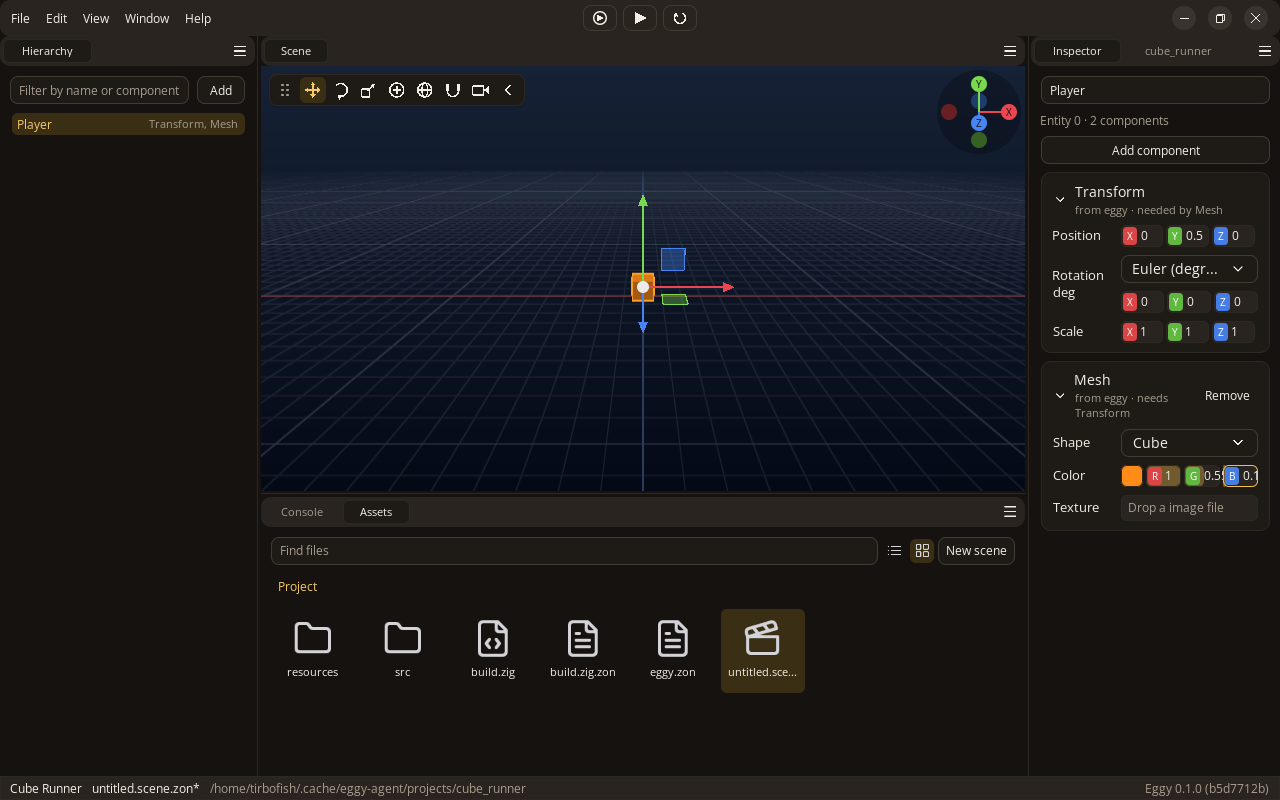
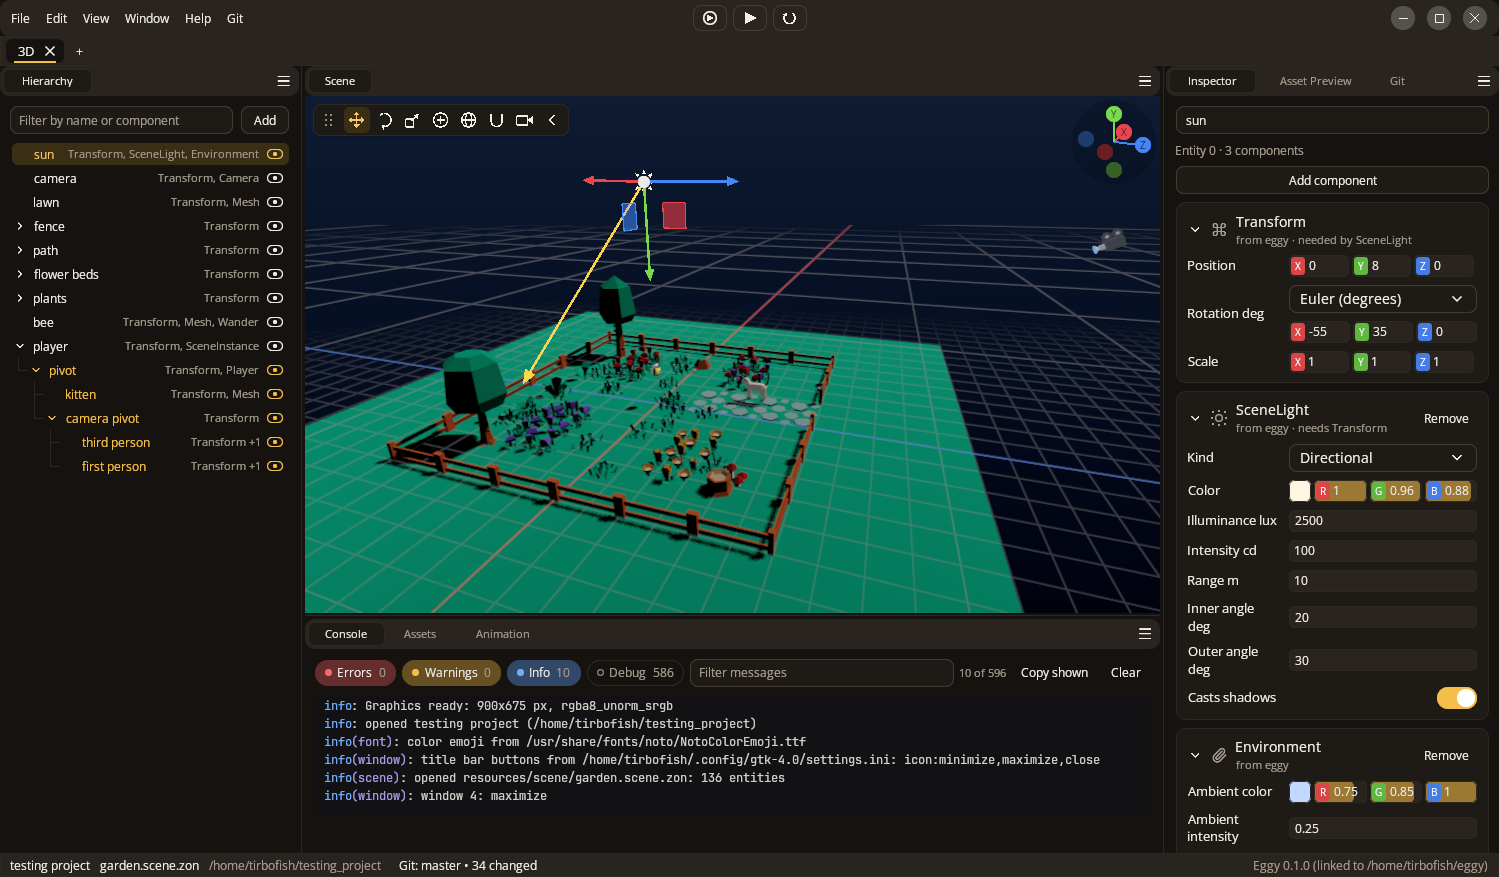
Add the get-started script and say the game compiles its own editor.
The script is there because the editor is compiled with the game. Refresh the editor screenshot to match.

diff --git a/index.html b/index.html
@@ -4,7 +4,7 @@
   <meta charset="utf-8">
   <meta name="viewport" content="width=device-width, initial-scale=1">
   <title>eggy: a game engine for Zig</title>
-  <meta name="description" content="eggy is a game engine for Zig. Your game is a Zig package that builds into a runtime for players and a desktop editor for making it.">
+  <meta name="description" content="eggy is a game engine for Zig. Your game is a Zig package that compiles its own editor from source.">
   <meta name="theme-color" content="#faf7f2" media="(prefers-color-scheme: light)">
   <meta name="theme-color" content="#15120f" media="(prefers-color-scheme: dark)">
   <link rel="icon" href="assets/icon.svg" type="image/svg+xml">
@@ -41,15 +41,24 @@
     <section class="hero">
       <div class="wrap">
         <h1>eggy is a game engine for Zig.</h1>
-        <p class="lead">You write your game as a Zig package. eggy builds it into a runtime for your players and a desktop editor for making it, and both run the same code.</p>
+        <p class="lead">You write your game as a Zig package. It compiles its own editor from source, which you can change with plugins or by editing that source.</p>
         <div class="actions">
           <a class="btn btn-default" href="https://eggyengine.github.io/eggy/"><svg class="i" aria-hidden="true"><use href="#i-docs"/></svg>Read the docs</a>
           <a class="btn btn-outline" href="https://github.com/eggyengine/eggy"><svg class="i" aria-hidden="true"><use href="#i-github"/></svg>Source on GitHub</a>
           <span class="note">Needs Zig 0.17</span>
         </div>
+        <div class="code">
+          <div class="tabs" role="tablist" aria-label="Get started">
+            <button class="tab" role="tab" id="tab-sh" aria-controls="code-sh" aria-selected="true">Linux and macOS</button>
+            <button class="tab" role="tab" id="tab-ps" aria-controls="code-ps" aria-selected="false" tabindex="-1">Windows</button>
+          </div>
+<pre id="code-sh" role="tabpanel" aria-labelledby="tab-sh" data-lang="sh">curl -fsSL https://raw.githubusercontent.com/eggyengine/eggy/main/scripts/get-started.sh | bash</pre>
+<pre id="code-ps" role="tabpanel" aria-labelledby="tab-ps" data-lang="ps" hidden>irm https://raw.githubusercontent.com/eggyengine/eggy/main/scripts/get-started.ps1 | iex</pre>
+        </div>
+        <p class="note">The script is used because the editor is compiled with the game.</p>
         <figure class="shot">
           <img src="assets/editor.png" width="1280" height="800" alt="The eggy editor: a Hierarchy panel listing a Player entity, a Scene panel showing an orange cube on a grid with a move gizmo, and an Inspector panel editing the Player's Transform and Mesh components.">
-          <figcaption>The editor with a Player entity selected. Every panel is a weeoui dock tab you can split, float or pop out.</figcaption>
+          <figcaption>The editor with the sun entity selected. Every panel is a weeoui dock tab you can split, float or pop out.</figcaption>
         </figure>
       </div>
     </section>
@@ -58,7 +67,7 @@
       <div class="wrap">
         <h2>Your game is Zig code</h2>
         <div class="body">
-          <p>A project has a game in <code>src/main.zig</code>, whose hooks the engine calls each frame, and a plugin in <code>src/root.zig</code> that brings components, systems and editor panels. The editor sets the project up for you.</p>
+          <p>A project has a game in <code>src/main.zig</code>, whose hooks the engine calls each frame, and a plugin in <code>src/root.zig</code> that brings components, systems and editor panels. Keep both, or delete the one you do not need. The editor sets the project up for you.</p>
           <dl class="commands">
             <dt><code>zig build run</code></dt><dd>Opens your game in the editor.</dd>
             <dt><code>zig build run-runtime</code></dt><dd>Runs it as players see it, on the desktop or the web.</dd>

diff --git a/projects.html b/projects.html
@@ -55,7 +55,7 @@
           <ul class="projects">
             <li>
               <h3><img class="i" src="assets/icon.svg" alt="" width="16" height="16">eggy</h3>
-              <p>Builds your game into a runtime for players and a desktop editor for making it. <a href="https://eggyengine.github.io/eggy/api/">API reference</a>.</p>
+              <p>Builds your game into a runtime for players and an editor compiled from source. <a href="https://eggyengine.github.io/eggy/api/">API reference</a>.</p>
               <div class="links"><a class="btn btn-ghost btn-sm" href="https://eggyengine.github.io/eggy/"><svg class="i" aria-hidden="true"><use href="#i-docs"/></svg>Docs</a><a class="btn btn-ghost btn-sm" href="https://github.com/eggyengine/eggy"><svg class="i" aria-hidden="true"><use href="#i-source"/></svg>Source</a></div>
             </li>
           </ul>

diff --git a/style.css b/style.css
@@ -145,7 +145,10 @@ img[src$="icon.svg"], img[src$="icon.png"] { image-rendering: pixelated; }
 .hero h1 { font-size: clamp(40px, 6.4vw, 72px); line-height: 1.05; letter-spacing: -0.025em; max-width: 14em; }
 .hero .lead { margin-top: 24px; max-width: var(--measure); font-size: 19px; color: var(--muted-foreground); }
 .actions { display: flex; flex-wrap: wrap; align-items: center; gap: 8px 12px; margin-top: 32px; }
-.actions .note { font-size: var(--ui-text); color: var(--muted-foreground); padding: 0 4px; }
+.note { font-size: var(--ui-text); color: var(--muted-foreground); }
+.actions .note { padding: 0 4px; }
+.hero .code { margin-top: 28px; }
+.hero .code + .note { margin-top: 10px; }
 
 .shot { margin: 64px 0 0; }
 .shot img {
